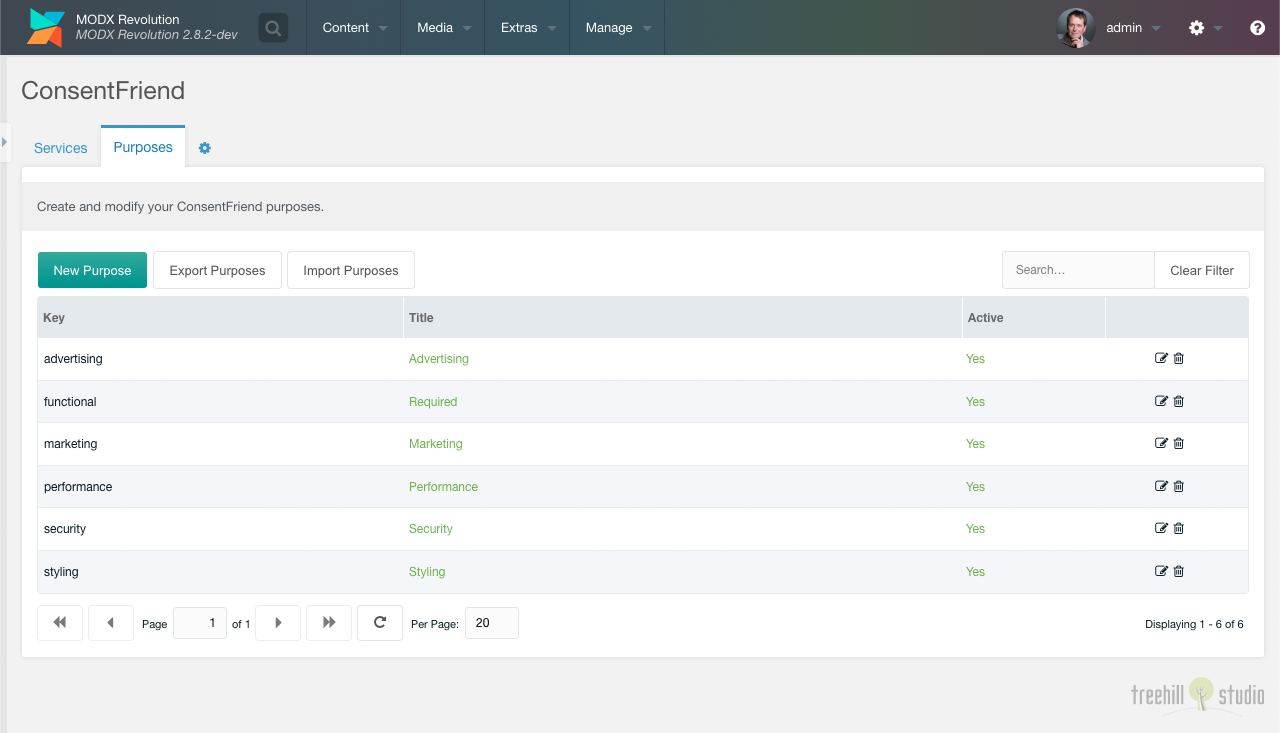
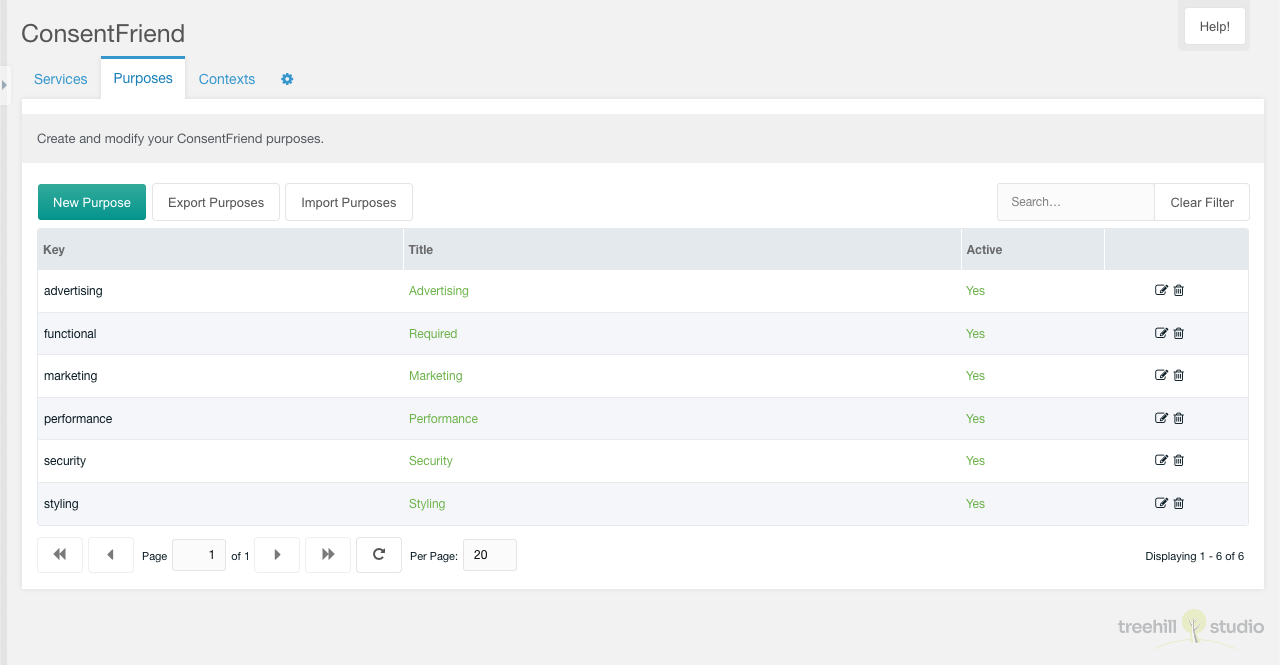
Update ConsentFriend docs to 1.5.0 (#171)
* Update ConsentFriend docs to 1.5.0

* Update ConsentFriend docs to 1.5.0

diff --git a/en/02_ConsentFriend/v1/03_Custom_Manager_Page/01_Services.md b/en/02_ConsentFriend/v1/03_Custom_Manager_Page/01_Services.md
@@ -1,7 +1,7 @@
 This tab contains a paginated grid with all internal or third-party services,
-that could collect personal data.
+that are able to collect personal data.
 
-With ConsentFriend can manage both inline and external scripts as well as static
+With ConsentFriend you can manage inline and external scripts as well as static
 tracking elements like images or stylesheet links. New services can be added
 with just a few lines of code.
 
@@ -14,7 +14,7 @@ You can export the services to a YAML file with a click on the Export Services
 button above the services grid.
 
 You can import a YAML file with the services with a click on the Import Services
-button above the services grid. In the import window you could select a file to
+button above the services grid. In the import window you have to select a file to
 import and the import mode. In the append mode the entries in the file are
 appended to the existing services in the grid. In the replace mode the existing
 services in the grid are replaced with the entries in the file. In the update
@@ -27,7 +27,8 @@ grid.
 
 Each service can be edited by a click on the edit icon in the row of the
 service. And it can be deleted after a confirmation with a click on the trash
-icon in the row of the service.
+icon in the row of the service. The service name and the yes/no columns are
+editable inline.
 
 The row of each service shows the service name, the title, some options, and the
 purposes. The service title will be shown in green, when it is retrieved from a
@@ -61,6 +62,9 @@ notice. Do not forget to add translations for all purposes you list here.
 the description is left blank, the description is set by the lexicon entry
 "consentfriend.services.&lt;name&gt;.description" with the consentfriend
 namespace.
+
+**Contexts:** The context(s) where this service is active in the frontend.
+Available since ConsentFriend 1.5.0.
 
 **Active:** If "active" is checked, the service is shown in the consent management window
 window.
@@ -96,7 +100,7 @@ In the code tab you can select the code section and enter the service code.
 
 **Code:** The service code, thats injected automatically into the page code. The
 service code will be automatically disabled for a direct execution before the
-injection. MODX context/system settings tags could be used in the service code.
+injection. MODX context/system settings tags can be used in the service code.
 
 ### Cookies Tab
 
@@ -141,7 +145,7 @@ disables all inputs with `data-name="googleRecaptcha"`. Please have a look at
 the [reCAPTCHA usage example](../02_Functionality/Google_reCAPTCHA.md).
 
 The `On Toggle` callback was named `Callback` before ConsentFriend 1.3.0. The next
-callbacks are available with ConsentFriend 1.3.0.
+callbacks are available since ConsentFriend 1.3.0.
 
 **On Init:** This callback code is executed when the service is initialized
 (once per page-load). It must contain a javascript function with the property

diff --git a/en/02_ConsentFriend/v1/01_Installation.md b/en/02_ConsentFriend/v1/01_Installation.md
@@ -5,18 +5,18 @@ A custom manager page called _ConsentFriend_ is installed within the _Extras_
 menu.
 
 There are some system settings available in the namespace _ConsentFriend_. These
-can also be edited in the [settings](03_Custom_Manager_Page/03_Settings.md) (gear
+can also be edited in the [settings](03_Custom_Manager_Page/04_Settings.md) (gear
 icon) tab of the _ConsentFriend_ custom manager page.
 
 ## Prepare the website
 
-After the installation on an existing website, you have to identify the used
-external services like Google Analytics, Matomo, Google Fonts etc. If those
-services are referenced at the end of the head or the body section, you could
-[edit an existing service or create a new
+After the installation on an existing website, you need to identify the external
+services used, such as Google Analytics, Matomo, Google Fonts, etc. If these
+services are referenced at the end of the Head or Body section, you can [edit an
+existing service or create a new
 service](03_Custom_Manager_Page/01_Services.md#createedit) and use the found
-code in the code tab. ConsentFriend will do the needed code changes for the
-consent management window.
+code in the Code tab. ConsentFriend will make the necessary changes to the code
+for the consent management window.
 
 If you use inline code for external services, you have to [modify it on your
 own](02_Functionality/01_Introduction.md#custom-external-services).

diff --git a/en/02_ConsentFriend/v1/03_Custom_Manager_Page/02_Purposes.md b/en/02_ConsentFriend/v1/03_Custom_Manager_Page/02_Purposes.md
@@ -11,7 +11,7 @@ You can export the purposes to a YAML file with a click on the Export Purposes
 button above the purposes grid.
 
 You can import a YAML file with the purposes with a click on the Import Purposes
-button above the purposes grid. In the import window you could select a file to
+button above the purposes grid. In the import window you have to select a file to
 import and the import mode. In the append mode the entries in the file are
 appended to the existing purposes in the grid. In the replace mode the existing
 purposes in the grid are replaced with the entries in the file. In the update
@@ -24,7 +24,8 @@ grid.
 
 Each purpose can be edited by a click on the edit icon in the row of the
 purpose. And it can be deleted after a confirmation with a click on the trash
-icon in the row of the purpose.
+icon in the row of the purpose. The purpose key and the active column are
+editable inline.
 
 The row of each purpose shows the key, the title and the active state of an
 entry.

diff --git a/en/02_ConsentFriend/v1/08_FAQ.md b/en/02_ConsentFriend/v1/08_FAQ.md
@@ -45,14 +45,14 @@ have to fill the html lang attribute with the cultureKey system/context setting:
 
 ## I would like to change the texts of ConsentFriend
 
-This could be done with the ConsentFriend [lexicon](06_Lexicon.md).
+This can be done with the ConsentFriend [lexicon](06_Lexicon.md).
 
 ## How can I create an own theme for ConsentFriend?
 
-If you want to create your own theme, you could import the file
+If you want to create your own theme, you can import the file
 `assets/components/consentfriend/scss/consentfriend.scss` in your scss workflow. There
 are a few scss variables available in
-`assets/components/consentfriend/scss/vars.scss` that could be overridden
+`assets/components/consentfriend/scss/vars.scss` that can be overridden
 before. To disable the default styling of the modal afterwards, please set the
 system setting consentfriend.js_url to
 `/assets/components/consentfriend/js/web/consentfriend-no-css.js`.

diff --git a/en/02_ConsentFriend/v1/03_Custom_Manager_Page/index.md b/en/02_ConsentFriend/v1/03_Custom_Manager_Page/index.md
@@ -4,18 +4,15 @@ parts of the events.
 
 #### Services 
 
-This tab contains a grid view of all third-party
-[services](01_Services.md), that could collect personal
-data.
+This tab contains a grid view of all third-party [services](01_Services.md),
+that are able to collect personal data.
 
 #### Purposes 
 
-This tab contains a grid view of all
-[purposes](02_Purposes.md), that can be assigned to a
-service.
+This tab contains a grid view of all [purposes](02_Purposes.md), that can be
+assigned to a service.
 
 #### Settings (gear icon) 
 
-This tab contains a grid view of all ConsentFriend
-[settings](03_Settings.md), that could be found in
-[settings](../04_System_Settings.md).
+This tab contains a grid view of all ConsentFriend [settings](04_Settings.md),
+that are available in [settings](../04_System_Settings.md).

diff --git a/en/02_ConsentFriend/v1/04_System_Settings.md b/en/02_ConsentFriend/v1/04_System_Settings.md
@@ -2,7 +2,7 @@ _ConsentFriend_ contains some _system settings_ in the `consentfriend`
 namespace.
 
 These are available in the MODX system settings panel and in the
-[settings](03_Custom_Manager_Page/03_Settings) tab (gear icon) of the
+[settings](03_Custom_Manager_Page/04_Settings) tab (gear icon) of the
 _ConsentFriend_ custom manager page.
 
 | Key                                     | Name              | Description                                                                                                                                                                                                                                                                                                                                                                                          | Default       |

diff --git a/en/02_ConsentFriend/v1/03_Custom_Manager_Page/04_Settings.md b/en/02_ConsentFriend/v1/03_Custom_Manager_Page/04_Settings.md
@@ -13,11 +13,11 @@ purposes grid.
 
 You can import a YAML file with the full ConsentFriend configuration with a
 click on the Import Configuration button above the settings grid. In the import
-window you could select a file to import.
+window you have to select a file to import.
 
 [![](img/configuration-import.png)](img/configuration-import.png)
 
-This ConsentFriend configuration file could be uploaded to
+This ConsentFriend configuration file can be uploaded to
 `{core_path}config/consentfriend/setup.yaml` before installing the ConsentFriend
 package. Then the content of file will be prepared as initial configuration of
 ConsentFriend. If you later on just need to add one service, prepare a

diff --git a/en/02_ConsentFriend/v1/03_Custom_Manager_Page/03_Contexts.md b/en/02_ConsentFriend/v1/03_Custom_Manager_Page/03_Contexts.md
@@ -1,0 +1,19 @@
+This tab contains a paginated grid with all contexts except the mgr context. It
+is only visible if the MODX system setting `consentfriend.use_contexts` is
+enabled.
+
+[![](img/contexts.png)](img/contexts.png)
+
+Each context can be edited by a click on the edit icon in the row of the
+context.
+
+The row of each context shows the context key, the name and the
+active services.
+
+## Edit
+
+The edit window allows the user to edit the context services.
+
+[![](img/context-edit.png)](img/context-edit.png)
+
+You can assign and remove the available services in the services combo box.

diff --git a/en/02_ConsentFriend/v1/05_Themes.md b/en/02_ConsentFriend/v1/05_Themes.md
@@ -6,7 +6,7 @@ Klaro. Sadly the changes are not backwards compatible. If you created an own
 theme, you have to use the new color variables. Please check the display of the
 consent popup after the update and after compiling the scss file for your site.
 
-> If you want to create your own theme, you could import the file
+> If you want to create your own theme, you can import the file
 `assets/components/consentfriend/scss/klaro.scss` in your scss workflow.
 To disable the default styling of the modal afterwards, please set the system
 setting consentfriend.js_url to

diff --git a/en/02_ConsentFriend/v1/index.md b/en/02_ConsentFriend/v1/index.md
@@ -16,8 +16,8 @@ prepares a compliance with GDPR/DSGVO on the website and helps the site admin to
 setup the consent management in an easy way.
 
 It is a perfect solution for website operators, that have to use third-party
-frontend services on a MODX website. Since those services could collect personal
-data, the service usage has to be fully transparent and compliant.
+frontend services on a MODX website. Since those services are able to collect
+personal data, the service usage has to be fully transparent and compliant.
 
 # Recommended Reading
 

diff --git a/en/02_ConsentFriend/v1/02_Functionality/01_Introduction.md b/en/02_ConsentFriend/v1/02_Functionality/01_Introduction.md
@@ -72,7 +72,7 @@ Example code for external services:
 
 #### Link to open the consent management window
 
-If you want to add a link to the consent management window on a page, you could use the following code: 
+If you want to add a link to the consent management window on a page, you can use the following code: 
 
 ```
 <a onclick="klaro.show();return false;">[[%consentfriend.services.change_setting? &namespace=`consentfriend`]]</a>

diff --git a/en/02_ConsentFriend/v1/07_Lexicon.md b/en/02_ConsentFriend/v1/07_Lexicon.md
@@ -11,4 +11,5 @@ MODX cache** for changes to appear in the front-end.
 The changes made this way will also persist across updates of the ConsentFriend
 package.
 
-The ConsentFriend lexicon could be translated on Weblate in the future.
+The ConsentFriend frontend lexicon can be translated on
+[Weblate](https://hosted.weblate.org/projects/treehillstudio/consentfriend-web/).
